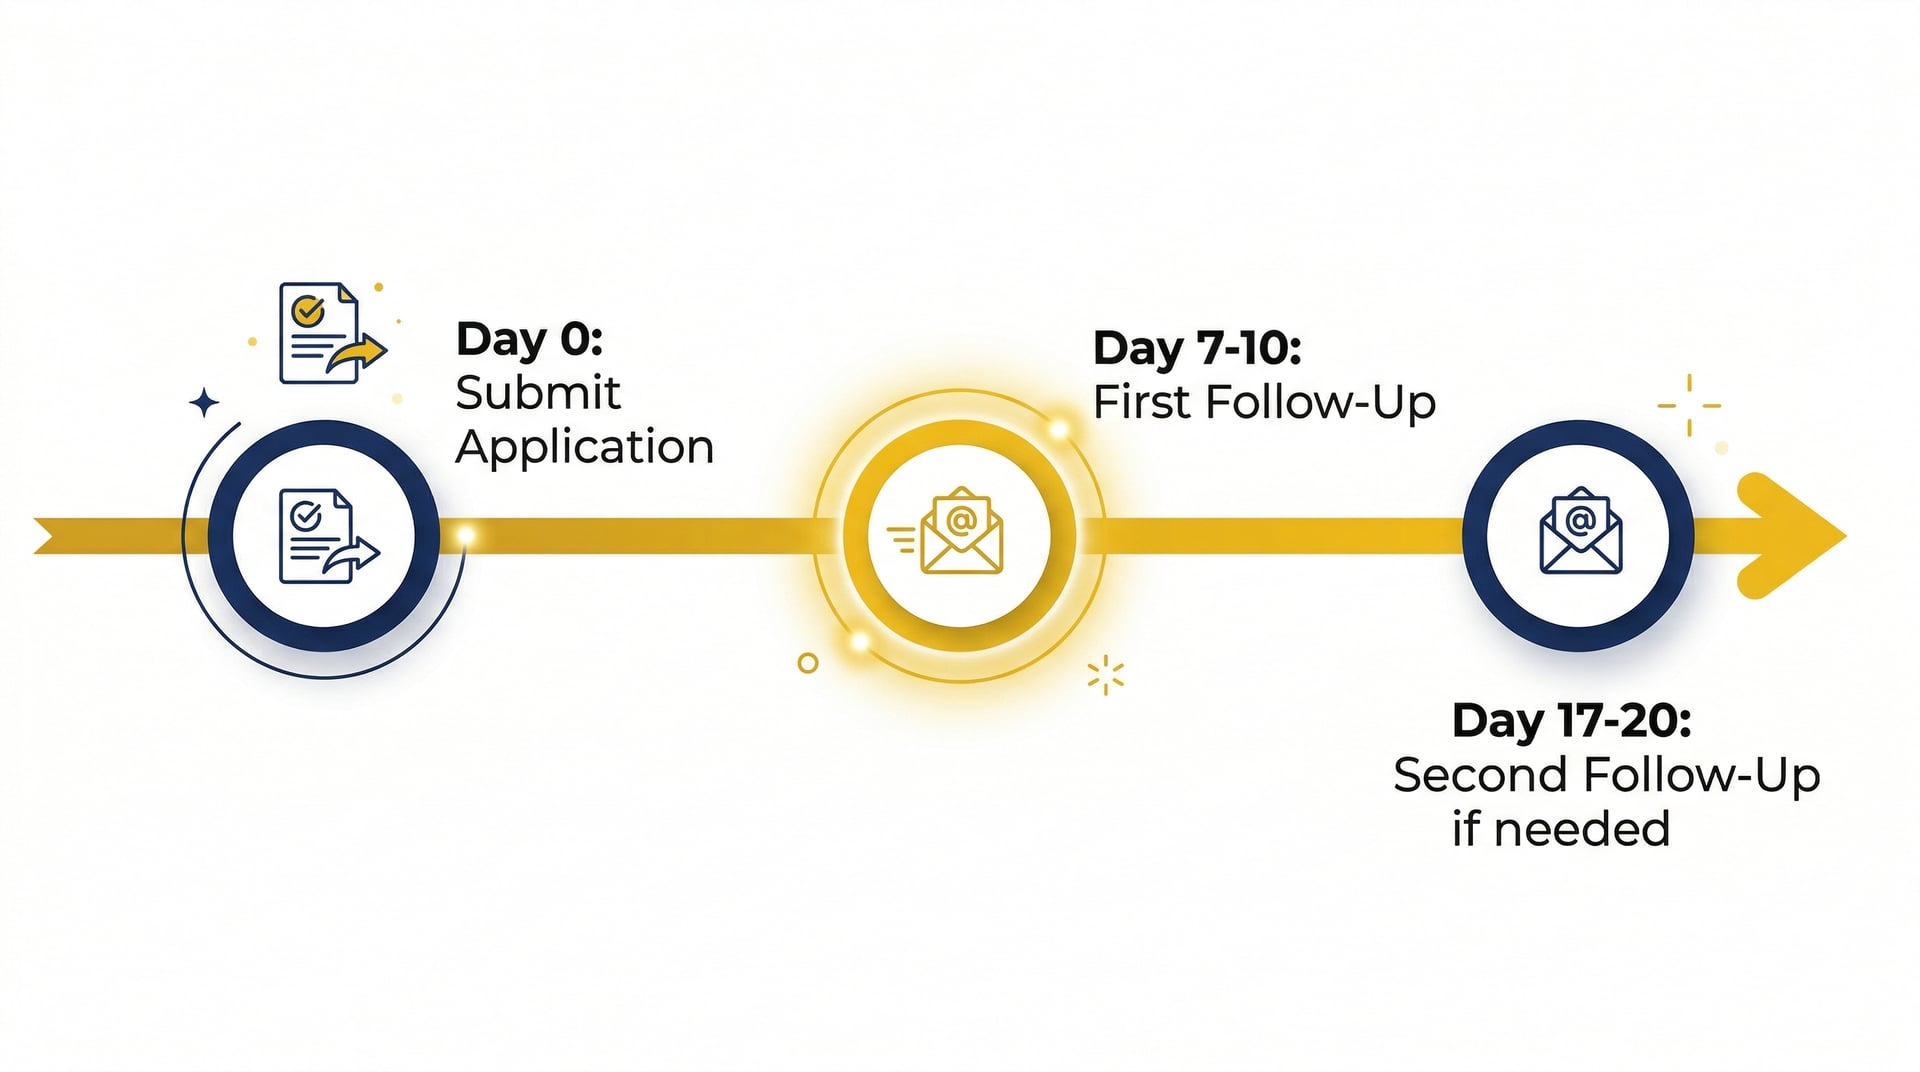
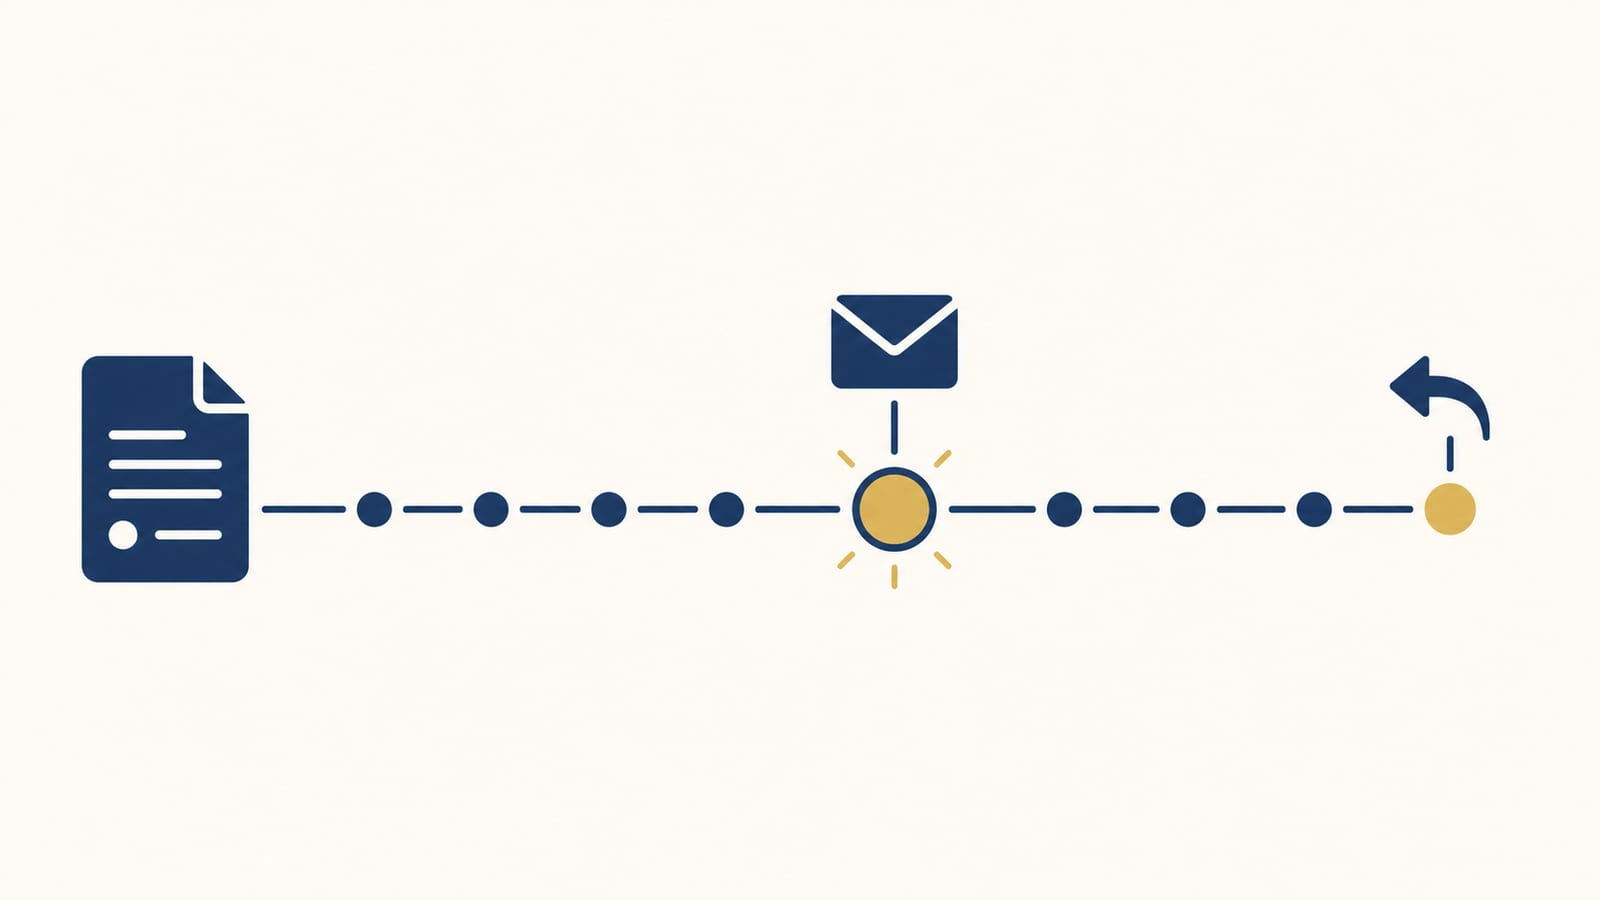
chore: refresh follow-up blog images

Changed region(s): [[0.0, 0.2489, 0.9688, 0.8089]]

diff --git a/docs/blog-image-brand-refresh-tracker.md b/docs/blog-image-brand-refresh-tracker.md
@@ -1,0 +1,50 @@
+# Blog Image Brand Refresh Tracker
+
+Goal: replace legacy blog imagery with GPT Image-2 generated brand illustrations in the shared Karko style.
+
+Shared style for replacement images:
+- Flat editorial illustration, vector-style
+- Warm cream background `#FAF7F2`
+- Navy `#1E3A5F` and gold `#D4A853` as the only accent colors
+- No text inside images
+- No photographs, screenshots, external logos, or realistic rendering
+- Solid fills only, clean minimal composition
+- 16:9, `1600 x 900`, JPG, optimized under 250KB
+
+## Progress
+
+| Status | Slug | Cover | Inline Images | Plan |
+| --- | --- | --- | ---: | --- |
+| Done | `screening-question-answers-ai-job-applications` | `/blog/screening-questions-cover.jpg` | 3 | Already refreshed in GPT Image-2 brand style. |
+| Done | `smart-job-feed-ai-curated-daily-jobs` | `/blog/smart-job-feed-cover.jpg` | 4 | Already refreshed in GPT Image-2 brand style. |
+| Done | `follow-up-email-after-job-application` | `/blog/follow-up-email-cover.jpg` | 4 | Replaced cover plus 4 inline legacy chart/timeline/screenshot/waiting visuals with GPT Image-2 brand illustrations. |
+| Todo | `how-to-tailor-resume-to-job-description` | `/blog/resume-tailoring-cover.jpg` | 5 | Reduce dense chart set. Likely cover + 4 inline illustrations around overlap, funnel, time saved, manual vs AI. |
+| Todo | `ats-resume-format-guide-2026` | `/blog/ats-resume-cover.jpg` | 5 | Replace technical diagrams with cleaner visual metaphors. Likely cover + 4 inline illustrations. |
+| Todo | `ai-cover-letter-generator-how-it-works` | `/blog/ai-cover-letter-cover.jpg` | 4 | Replace flow/structure/chart images. Likely cover + 3 inline illustrations. |
+| Todo | `best-ai-job-application-tools-2026` | `/blog/ai-tools-comparison-cover.jpg` | 3 | Replace matrix/speed/decision-tree with brand-safe abstractions. Likely cover + 3 inline illustrations. |
+| Todo | `how-long-to-apply-for-job-2026` | `/blog/time-comparison-chart.jpg` | 4 | Current cover duplicates inline time chart. Replace with dedicated cover + 3 inline illustrations. |
+| Todo | `what-is-a-master-cv` | `/blog/master-cv-cover.jpg` | 3 | Replace master CV concept/build/tailored comparison. Likely cover + 3 inline illustrations. |
+| Todo | `german-cv-vs-american-resume` | `/blog/german-vs-american-cv-cover.jpg` | 3 | Avoid flags/text-heavy differences. Use abstract document comparison visuals. Likely cover + 3 inline illustrations. |
+| Todo | `is-it-ethical-to-use-ai-for-job-applications` | `/blog/ai-ethics-cover.jpg` | 3 | Replace spectrum/balance/safeguards diagrams with calmer trust/safeguard metaphors. Likely cover + 3 inline illustrations. |
+
+## Working Order
+
+1. Done: `follow-up-email-after-job-application`
+2. Next: `how-to-tailor-resume-to-job-description`
+3. `ats-resume-format-guide-2026`
+4. `ai-cover-letter-generator-how-it-works`
+5. `best-ai-job-application-tools-2026`
+6. `how-long-to-apply-for-job-2026`
+7. `what-is-a-master-cv`
+8. `german-cv-vs-american-resume`
+9. `is-it-ethical-to-use-ai-for-job-applications`
+
+## Per-Post Checklist
+
+- Read the blog content and current image placements.
+- Decide the smallest useful image set, including the cover.
+- Generate GPT Image-2 replacements in shared brand style.
+- Convert to optimized JPG under 250KB.
+- Replace legacy files or update markdown references where reducing image count improves the post.
+- Confirm dimensions, file sizes, and no accidental blog content drift.
+- Commit and push the completed post batch.
